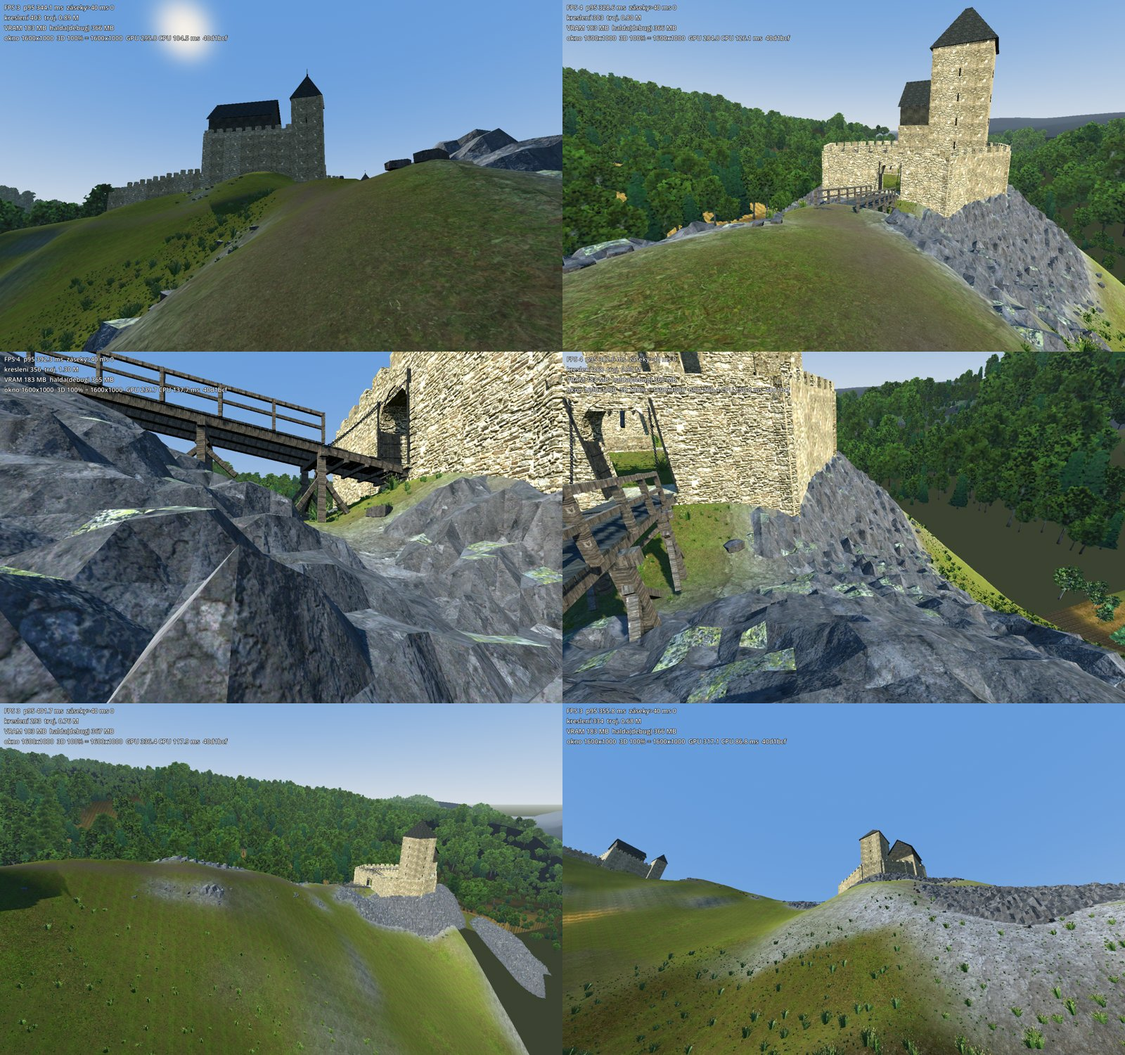
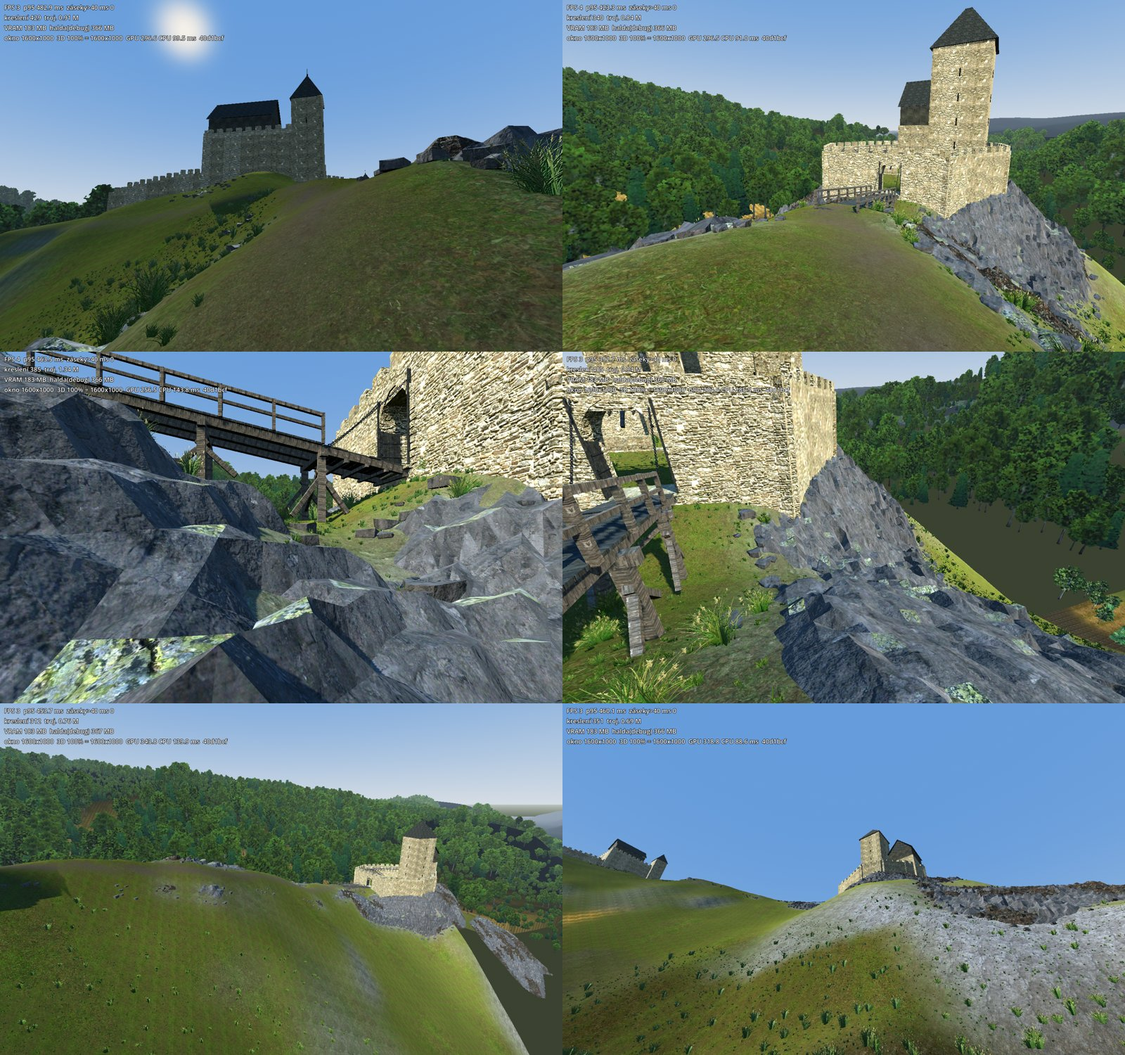
Puchart: skály – velké lomové plochy a pukliny ve dvou úrovních, odstíny droby, suť na přechodu, vytracení u mostu
Claude-Session: https://claude.ai/code/session_01DmjHz97xAq6SrpN6r8jG8o

diff --git a/puchart/blender/skaly.py b/puchart/blender/skaly.py
@@ -93,6 +93,9 @@ u = (XX - gs["o"][0]) * gs["du"][0] + (ZZ - gs["o"][1]) * gs["du"][1]; v = (XX -
 ven = np.where((u > -VY["sklep_m"]) & (u < gs["Li"] + VY["sklep_m"]) & (v > -VY["sklep_m"]) & (v < gs["Wi"] + VY["sklep_m"] + 1.5), -5, ven)
 W *= np.clip(ven / S["okraj_m"], 0, 1)
 W = gaussian_filter(W, 0.6 / hm)
+_mb = np.array(B["most"]["od"], float); _ab = GB - _mb; _t = np.clip(((XX - _mb[0]) * _ab[0] + (ZZ - _mb[1]) * _ab[1]) / (_ab @ _ab), 0, 1)
+_dm = np.hypot(XX - (_mb[0] + _ab[0] * _t), ZZ - (_mb[1] + _ab[1] * _t))
+W *= np.clip((_dm - S["most_vytraceni_m"][0]) / S["most_vytraceni_m"][1], 0, 1)   # u mostu se skála vytratí (ne useknutá rovina)
 # pod mostem B: strop
 mb = np.array(B["most"]["od"], float); ab = GB - mb; t = np.clip(((XX - mb[0]) * ab[0] + (ZZ - mb[1]) * ab[1]) / (ab @ ab), 0, 1)
 dmost = np.hypot(XX - (mb[0] + ab[0] * t), ZZ - (mb[1] + ab[1] * t))
@@ -109,15 +112,25 @@ sem = np.array([(x + rng.uniform(0, PK["rozestup_m"]), z + rng.uniform(0, PK["ro
 tree = cKDTree(sem); dd, ii = tree.query(np.c_[XX.ravel(), ZZ.ravel()], k=2)
 d1 = dd[:, 0].reshape(XX.shape); d2 = dd[:, 1].reshape(XX.shape); bid = ii[:, 0].reshape(XX.shape)
 posun = rng.uniform(*PK["posun_bloku_m"], len(sem))[bid]
+# velké lomové plochy: Voronoi ~4 m, každý blok vlastní ukloněná rovina (rovné lomy), hluboké pukliny mezi nimi
+LO = S["lomy"]
+bx2 = np.arange(X0, X1, LO["rozestup_m"]); bz2 = np.arange(Z0, Z1, LO["rozestup_m"])
+sem2 = np.array([(x + rng.uniform(0, LO["rozestup_m"]), z + rng.uniform(0, LO["rozestup_m"])) for x in bx2 for z in bz2])
+dd2, ii2 = cKDTree(sem2).query(np.c_[XX.ravel(), ZZ.ravel()], k=2)
+D1 = dd2[:, 0].reshape(XX.shape); D2 = dd2[:, 1].reshape(XX.shape); big = ii2[:, 0].reshape(XX.shape)
+sx_, sz_ = rng.uniform(-1, 1, len(sem2)) * LO["sklon_ploch"], rng.uniform(-1, 1, len(sem2)) * LO["sklon_ploch"]
+lom = sx_[big] * (XX - sem2[big, 0]) + sz_[big] * (ZZ - sem2[big, 1])
+odstin = rng.uniform(0, 1, len(sem2))[big]
+velka_pukl = np.clip(1 - (D2 - D1) / LO["sirka_m"], 0, 1)
 faze = rng.uniform(0, 1, len(sem))[bid]                               # každý blok láme vrstvy jinde
 k = np.ceil(plocha / mocnost + faze * 0.5) - faze * 0.5
 stup = k * mocnost - (XX * g[0] + ZZ * g[1]) * tg                    # zpět do světa: vždy >= Y0
-skala = stup + posun * W + S["hrbolatost_m"] * sum2(1.2)
+skala = stup + (posun + lom) * W + S["hrbolatost_m"] * sum2(1.2)
 puklina = np.clip(1 - (d2 - d1) / PK["sirka_m"], 0, 1)             # blízko hrany Voronoi = puklina
 skala = np.maximum(skala, Y0 + 0.05)
 # zuby mřížky na hranách stupňů (diagonály čtverců) pryč: lehké vyhlazení 0,3 m, stěny zůstanou strmé (~70°)
 skala = np.maximum(gaussian_filter(skala, S["vyhlazeni_m"] / hm), Y0 + 0.05)
-skala -= puklina * PK["hloubka_m"]                                   # pukliny až po vyhlazení (zůstanou ostré)
+skala -= puklina * PK["hloubka_m"] + velka_pukl * LO["hloubka_m"]      # pukliny až po vyhlazení (zůstanou ostré)
 VC = S["vychozy"]   # výchozy různě vysoké, u mostu nižší
 fv = VC["vyska_min"] + (1 - VC["vyska_min"]) * (0.5 + 0.5 * sum2(VC["sum_m"]))
 fv = np.where(dmost < VC["u_mostu_m"], np.minimum(fv, VC["u_mostu_vyska"]), fv)
@@ -142,7 +155,8 @@ for i in range(nz - 1):
         v = [(xs[jx], Yr[i, jx], zs[i]), (xs[jx + 1], Yr[i, jx + 1], zs[i]), (xs[jx + 1], Yr[i + 1, jx + 1], zs[i + 1]), (xs[jx], Yr[i + 1, jx], zs[i + 1])]
         dy = max(p[1] for p in v) - min(p[1] for p in v)
         rovne = dy < hm * 0.6
-        mat = "skala_mech" if rovne and (faze[i, jx] > 0.55) else "skala"
+        o_ = odstin[i, jx]; B_ = S["barvy"]
+        mat = "skala_mech" if rovne and (faze[i, jx] > 0.55) else ("skala_tm" if o_ < B_["tmava"] else ("skala_sv" if o_ > 1 - B_["svetla"] else "skala"))
         P = dil(xs[jx], zs[i])   # dva trojúhelníky: každý vlastní projekce textury (čtverec přes hranu stupně se táhl)
         P.mesh([v[0], v[3], v[2]], [(0, 1, 2)], mat); P.mesh([v[0], v[2], v[1]], [(0, 1, 2)], mat); nf += 2
 # kolize: hrubší síť (každý kolize_krok bod) jako trimesh
@@ -155,7 +169,7 @@ for i in range(0, nz - KS, KS):
 
 # ---------------------------------------------------------------- suť: nepravidelné úlomky v pásu pod skalou
 SU = S["sut"]; body = []
-okraj = (W > 0.02) & (W < 0.35) & (ven > 0.3)
+okraj = (W > SU["pas"][0]) & (W < SU["pas"][1]) & (ven > 0.3)
 kand = np.argwhere(okraj); nsut = 0
 for kk in rng.permutation(len(kand))[:SU["kusu"]]:
     i, jx = kand[kk]; x, z = xs[jx] + rng.uniform(-0.2, 0.2), zs[i] + rng.uniform(-0.2, 0.2); r = rng.uniform(*SU["velikost_m"])

diff --git a/puchart/blender/hrady.py b/puchart/blender/hrady.py
@@ -510,7 +510,7 @@ TEX = {  # jméno materiálu Havrana -> (fotka, velikost_m, jas)
     "sindel": ("sindel", 1.5, 1.35), "sindel_hra": ("sindel", 1.5, 1.35),
     "dub": ("rough_wood", 0.5, 0.75), "hraz": ("rough_wood", 0.5, 0.6), "prkna_ven": ("wood_planks_grey", 1.5, 0.95),
     "okenice": ("wood_planks_grey", 1.5, 0.8), "dvere": ("wood_planks_grey", 1.5, 0.7),
-    "skala_mech": ("mossy_rock", 2.0, 1.0), "skala": ("droba", 2.5, 1.05), "sut": ("droba", 1.2, 0.95),
+    "skala_mech": ("mossy_rock", 2.0, 1.0), "skala_tm": ("droba", 2.5, 0.8), "skala_sv": ("droba", 3.0, 1.25), "skala": ("droba", 2.5, 1.05), "sut": ("droba", 1.2, 0.95),
 }
 MATS = {}
 def material(jm):
